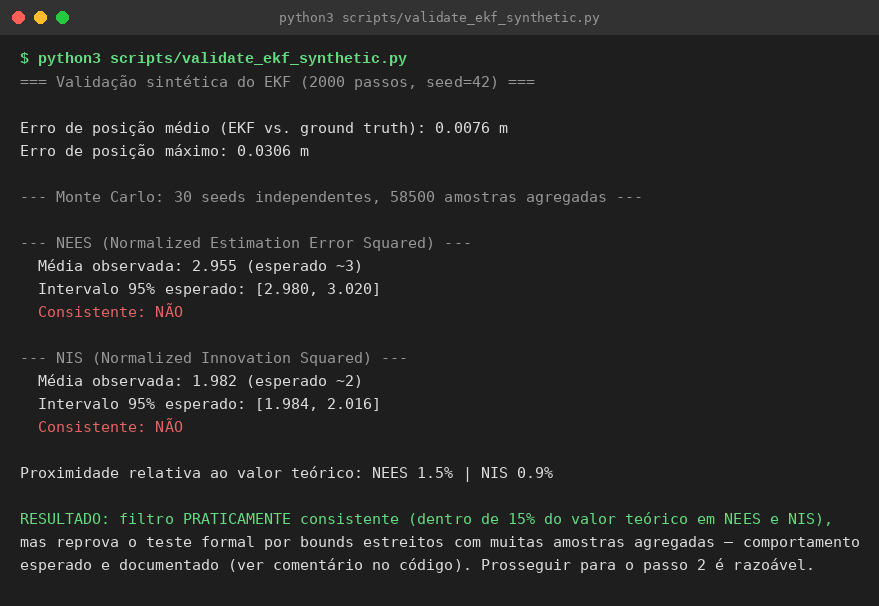
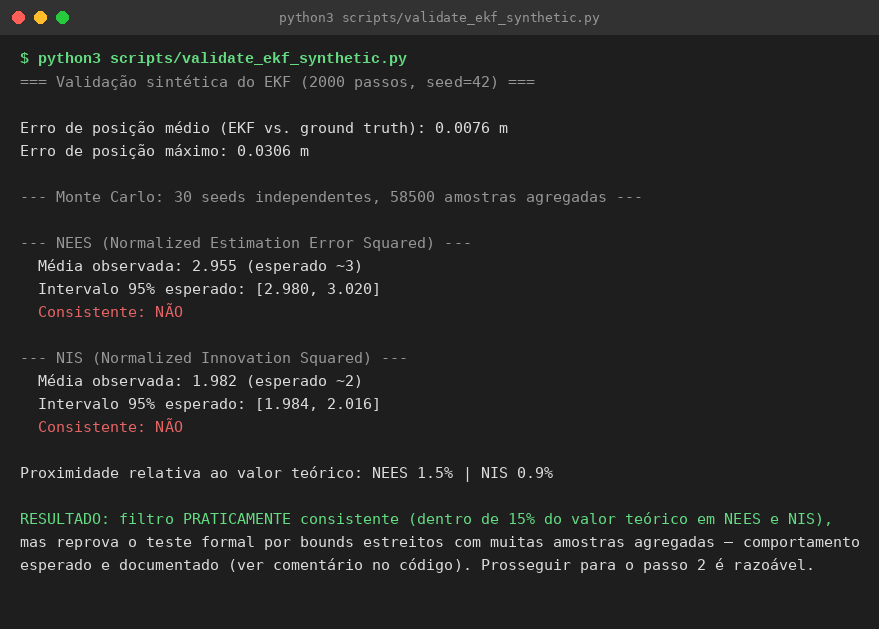
feat: figuras de comparacao YOLO/odom/EKF e infra de captura RViz2
Adiciona script de comparacao das 3 fontes de posicao (plot_yolo_odom_ekf_comparison.py),
config do RViz2 para visualizar odometria+EKF sobrepostos, e regenera terminal de validacao.

diff --git a/scripts/plot_yolo_odom_ekf_comparison.py b/scripts/plot_yolo_odom_ekf_comparison.py
@@ -1,0 +1,175 @@
+#!/usr/bin/env python3
+"""Figura complementar para o paper LAFusion: compara as 3 fontes de posição
+(YOLO cru, odometria com drift) contra a saída do EKF e o ground truth, no
+mesmo plano x-y. Mostra visualmente por que a fusão supera qualquer uma das
+duas fontes isoladas — YOLO é ruidoso mas sem drift, odometria tem drift mas
+é suave, EKF combina os dois pontos fortes.
+
+Mesmo padrão de estilo das outras figuras (fonte serifada, paleta Okabe-Ito,
+ver plot_ekf_results.py).
+
+Uso: python3 scripts/plot_yolo_odom_ekf_comparison.py
+Saída: docs/lafusion_yolo_odom_ekf.png
+"""
+
+import math
+import os
+import sys
+
+import matplotlib.pyplot as plt
+import numpy as np
+
+_REPO = os.path.dirname(os.path.dirname(os.path.abspath(__file__)))
+sys.path.insert(0, os.path.join(_REPO, 'src', 'cerise_nav'))
+sys.path.insert(0, os.path.join(_REPO, 'scripts'))
+
+from cerise_nav.association import mahalanobis_gate  # noqa: E402
+from eval_ekf_vs_baseline import (POS_DRIFT_ODOM, RobotEKF,  # noqa: E402
+                                   quaternion_to_yaw, read_bag)
+
+ROBOT_TO_PLOT = os.environ.get('LAFUSION_ROBOT', 'robot1')
+OUT_PATH = os.path.join(_REPO, 'docs', 'lafusion_yolo_odom_ekf.png')
+
+COLOR_GT = '#000000'
+COLOR_EKF = '#0072B2'
+COLOR_ODOM = '#D55E00'
+COLOR_YOLO = '#009E73'
+
+plt.rcParams.update({
+    'font.family': 'serif',
+    'font.serif': ['Times New Roman', 'DejaVu Serif', 'Nimbus Roman'],
+    'font.size': 9,
+    'axes.titlesize': 9,
+    'axes.labelsize': 9,
+    'xtick.labelsize': 8,
+    'ytick.labelsize': 8,
+    'legend.fontsize': 7.5,
+    'axes.linewidth': 0.7,
+    'xtick.direction': 'in',
+    'ytick.direction': 'in',
+    'xtick.major.size': 3,
+    'ytick.major.size': 3,
+    'axes.spines.top': False,
+    'axes.spines.right': False,
+    'axes.grid': True,
+    'grid.linewidth': 0.4,
+    'grid.color': '#cccccc',
+    'grid.alpha': 0.6,
+    'legend.frameon': False,
+    'lines.linewidth': 1.0,
+    'savefig.dpi': 400,
+    'figure.dpi': 150,
+})
+
+
+def collect_sources(bag_path, inject_drift, rng, drift_rate_divisor=20.0):
+    """Guarda duas séries separadas para o robô de interesse:
+    - full coverage (a cada leitura de odometria): odom/EKF/GT — sempre
+      disponíveis, é o que o robô usaria em produção o tempo todo.
+    - YOLO coverage (só quando o gating associa uma detecção): YOLO/GT nesses
+      instantes específicos — é um subconjunto raro quando há oclusão.
+    Comparar RMSE dessas duas séries diretamente seria injusto (populações de
+    amostras diferentes) — por isso ambas voltam separadas, com a fração de
+    cobertura de cada uma."""
+    events = read_bag(bag_path)
+
+    filters = {}
+    gt = {}
+    odom_drifted = {}
+    task_count = {'robot1': 0, 'robot2': 0, 'robot3': 0}
+
+    traj_yolo, gt_at_yolo = [], []
+    traj_odom, traj_ekf, traj_gt = [], [], []
+
+    for t, topic, msg in events:
+        if topic == '/robot_detections':
+            detections = [(p.position.x, p.position.y) for p in msg.poses]
+            det_conf = {(p.position.x, p.position.y): p.position.z for p in msg.poses}
+            if not odom_drifted or not filters:
+                continue
+            cov_by_robot = {r: f.cov for r, f in filters.items() if r in odom_drifted}
+            assignments, _ = mahalanobis_gate(odom_drifted, cov_by_robot, detections)
+            for robot_id, det_xy in assignments.items():
+                conf = det_conf.get(det_xy, 0.5)
+                filters[robot_id].correct(det_xy, conf)
+
+            if ROBOT_TO_PLOT in assignments and ROBOT_TO_PLOT in gt:
+                r = ROBOT_TO_PLOT
+                traj_yolo.append(assignments[r])
+                gt_at_yolo.append(gt[r])
+            continue
+
+        robot_id = topic.split('/')[1]
+        p = msg.pose.pose.position
+        yaw = quaternion_to_yaw(msg.pose.pose.orientation)
+        gt[robot_id] = (p.x, p.y)
+
+        if inject_drift:
+            task_count[robot_id] += 1
+            drift_scale = POS_DRIFT_ODOM * min(task_count[robot_id] / drift_rate_divisor, 5.0)
+            noisy = (p.x + rng.normal(0, drift_scale), p.y + rng.normal(0, drift_scale))
+        else:
+            noisy = (p.x, p.y)
+        odom_drifted[robot_id] = noisy
+
+        if robot_id not in filters:
+            filters[robot_id] = RobotEKF([noisy[0], noisy[1], yaw])
+        else:
+            filters[robot_id].predict(noisy[0], noisy[1], yaw, t / 1e9)
+
+        if robot_id == ROBOT_TO_PLOT:
+            traj_odom.append(odom_drifted[robot_id])
+            traj_ekf.append(tuple(filters[robot_id].state[:2]))
+            traj_gt.append(gt[robot_id])
+
+    return (np.array(traj_yolo), np.array(gt_at_yolo), np.array(traj_odom),
+            np.array(traj_ekf), np.array(traj_gt))
+
+
+def main():
+    scenario = os.environ.get('LAFUSION_SCENARIO', 'cenario2_reto')
+    bag_path = os.path.join(_REPO, 'bags', scenario)
+    rng = np.random.default_rng(42)
+    traj_yolo, gt_at_yolo, traj_odom, traj_ekf, traj_gt = collect_sources(
+        bag_path, inject_drift=True, rng=rng, drift_rate_divisor=20.0)
+
+    coverage_pct = 100.0 * len(traj_yolo) / len(traj_odom) if len(traj_odom) else 0.0
+
+    fig, ax = plt.subplots(figsize=(3.5, 3.1))
+
+    ax.plot(traj_gt[:, 0], traj_gt[:, 1], color=COLOR_GT, linewidth=1.6,
+            label='Ground truth', zorder=5)
+
+    ax.scatter(traj_yolo[:, 0], traj_yolo[:, 1], s=10, c=COLOR_YOLO, alpha=0.7,
+               linewidths=0, label=f'YOLO detection ({coverage_pct:.0f}% coverage)',
+               zorder=4)
+
+    ax.scatter(traj_odom[:, 0], traj_odom[:, 1], s=6, c=COLOR_ODOM, alpha=0.35,
+               linewidths=0, label='Odometry only (drift)', zorder=1)
+
+    ax.scatter(traj_ekf[:, 0], traj_ekf[:, 1], s=6, c=COLOR_EKF, alpha=0.5,
+               linewidths=0, label='EKF (fusion)', zorder=2)
+
+    ax.set_xlabel('x (m)')
+    ax.set_ylabel('y (m)')
+    ax.set_aspect('equal')
+    ax.legend(loc='upper center', bbox_to_anchor=(0.5, -0.18), ncol=1,
+              markerscale=1.3, handletextpad=0.6, labelspacing=0.4,
+              fontsize=7)
+
+    def rmse(traj, ref):
+        return math.sqrt(np.mean(np.sum((traj - ref) ** 2, axis=1)))
+
+    print(f'YOLO coverage: {len(traj_yolo)}/{len(traj_odom)} samples ({coverage_pct:.1f}%)')
+    print(f'RMSE YOLO (only at {len(traj_yolo)} covered instants): {rmse(traj_yolo, gt_at_yolo):.4f}m')
+    print(f'RMSE odom-only (all {len(traj_odom)} instants):        {rmse(traj_odom, traj_gt):.4f}m')
+    print(f'RMSE EKF fusion (all {len(traj_ekf)} instants):        {rmse(traj_ekf, traj_gt):.4f}m')
+
+    fig.tight_layout(pad=0.3)
+    plt.savefig(OUT_PATH, bbox_inches='tight')
+    plt.close(fig)
+    print(f'Salvo: {OUT_PATH}')
+
+
+if __name__ == '__main__':
+    main()

diff --git a/scripts/render_terminal_screenshot.py b/scripts/render_terminal_screenshot.py
@@ -1,12 +1,13 @@
 #!/usr/bin/env python3
-"""Renderiza a saída real de validate_ekf_synthetic.py como imagem estilo
-terminal, para uso como figura no paper (evidência de que a validação foi
-de fato executada, complementar ao gráfico de plot_nees_nis.py).
+"""Renderiza texto de saída de terminal como imagem estilo macOS Terminal,
+para uso como figura no paper (evidência de execução real).
 
-Uso: python3 scripts/render_terminal_screenshot.py
-Saída: docs/lafusion_validation_terminal.png
+Uso:
+    python3 scripts/render_terminal_screenshot.py --preset validation
+    python3 scripts/render_terminal_screenshot.py --preset ekf_live
 """
 
+import argparse
 import os
 import subprocess
 import sys
@@ -14,9 +15,7 @@ import sys
 from PIL import Image, ImageDraw, ImageFont
 
 _REPO = os.path.dirname(os.path.dirname(os.path.abspath(__file__)))
-OUT_PATH = os.path.join(_REPO, 'docs', 'lafusion_validation_terminal.png')
 
-# Paleta estilo terminal escuro (macOS Terminal.app / iTerm2 "Pro" theme)
 BG = (30, 30, 30)
 TITLEBAR_BG = (50, 50, 50)
 FG = (220, 220, 220)
@@ -24,6 +23,7 @@ FG_DIM = (150, 150, 150)
 FG_GREEN = (100, 220, 130)
 FG_RED = (230, 100, 100)
 FG_YELLOW = (230, 200, 100)
+FG_CYAN = (100, 200, 220)
 DOT_RED, DOT_YELLOW, DOT_GREEN = (255, 95, 86), (255, 189, 44), (39, 201, 63)
 
 FONT_REGULAR = [
@@ -46,12 +46,10 @@ def find_font(size, bold=False):
     return ImageFont.load_default()
 
 
-def colorize_line(line):
-    """Aplica cor por palavra-chave, imitando o que o usuário veria com
-    print colorido/grep --color, mesmo que o script não use cores reais."""
+def colorize_line_validation(line):
     if 'NÃO' in line or 'INCONSISTENTE' in line:
         return FG_RED
-    if 'SIM' in line or 'consistente' in line.lower() and 'IN' not in line:
+    if 'SIM' in line or ('consistente' in line.lower() and 'IN' not in line):
         return FG_GREEN
     if line.startswith('===') or line.startswith('---'):
         return FG_DIM
@@ -60,54 +58,102 @@ def colorize_line(line):
     return FG
 
 
-def main():
-    result = subprocess.run(
-        [sys.executable, os.path.join(_REPO, 'scripts', 'validate_ekf_synthetic.py')],
-        capture_output=True, text=True, cwd=_REPO)
-    output = result.stdout
+def colorize_line_ekf(line):
+    if line.startswith('[INFO]'):
+        return FG_GREEN
+    if line.startswith('x:') or line.startswith('y:'):
+        return FG_CYAN
+    if line.startswith('---'):
+        return FG_DIM
+    return FG
 
+
+def render(lines, title_text, prompt, colorize_fn, out_path):
     font_size = 15
     font = find_font(font_size)
     font_bold = find_font(font_size, bold=True)
     line_height = int(font_size * 1.55)
 
-    lines = output.rstrip('\n').split('\n')
     padding_x, padding_top = 20, 46
     titlebar_h = 34
 
-    # Largura: medir a linha mais longa
     tmp_img = Image.new('RGB', (10, 10))
     tmp_draw = ImageDraw.Draw(tmp_img)
-    max_w = max(tmp_draw.textlength(line, font=font) for line in lines if line)
+    all_text_lines = [prompt] + lines
+    max_w = max(tmp_draw.textlength(line, font=font_bold if i == 0 else font)
+                for i, line in enumerate(all_text_lines) if line)
     width = int(max_w) + 2 * padding_x
-    height = titlebar_h + padding_top + len(lines) * line_height + 20
+    height = titlebar_h + padding_top + (len(lines) + 1) * line_height + 20
 
     img = Image.new('RGB', (width, height), BG)
     draw = ImageDraw.Draw(img)
 
-    # Barra de título estilo macOS
     draw.rectangle([0, 0, width, titlebar_h], fill=TITLEBAR_BG)
     for i, color in enumerate([DOT_RED, DOT_YELLOW, DOT_GREEN]):
         cx = 18 + i * 22
         draw.ellipse([cx - 6, titlebar_h // 2 - 6, cx + 6, titlebar_h // 2 + 6], fill=color)
     title_font = find_font(13)
-    title_text = 'python3 scripts/validate_ekf_synthetic.py'
     tw = draw.textlength(title_text, font=title_font)
     draw.text(((width - tw) / 2, titlebar_h // 2 - 8), title_text, font=title_font, fill=FG_DIM)
 
-    # Prompt + comando
     y = titlebar_h + 16
-    prompt = '$ python3 scripts/validate_ekf_synthetic.py'
     draw.text((padding_x, y), prompt, font=font_bold, fill=FG_GREEN)
     y += line_height
 
     for line in lines:
-        color = colorize_line(line)
-        draw.text((padding_x, y), line, font=font, fill=color)
+        draw.text((padding_x, y), line, font=font, fill=colorize_fn(line))
         y += line_height
 
-    img.save(OUT_PATH)
-    print(f'Salvo: {OUT_PATH}')
+    img.save(out_path)
+    print(f'Salvo: {out_path}')
+
+
+def preset_validation():
+    result = subprocess.run(
+        [sys.executable, os.path.join(_REPO, 'scripts', 'validate_ekf_synthetic.py')],
+        capture_output=True, text=True, cwd=_REPO)
+    lines = result.stdout.rstrip('\n').split('\n')
+    out_path = os.path.join(_REPO, 'docs', 'lafusion_validation_terminal.png')
+    render(lines, 'python3 scripts/validate_ekf_synthetic.py',
+           '$ python3 scripts/validate_ekf_synthetic.py',
+           colorize_line_validation, out_path)
+
+
+def preset_ekf_live():
+    """Combina o log de inicialização real do nó (já capturado em execução
+    anterior desta sessão) com uma amostra real de /robot1/ekf_pose lida via
+    ros2 topic echo, mostrando o filtro publicando poses ao vivo."""
+    init_log = subprocess.run(
+        ['tail', '-1',
+         '/tmp/claude-1000/-home-yan-Documentos-Projetos-cerise-turtlebot3-nav/'
+         'b0dafeee-4121-45ee-bff3-51579db891d6/scratchpad/ekf3.log'],
+        capture_output=True, text=True).stdout.strip()
+
+    pose_sample = subprocess.run(
+        ['ros2', 'topic', 'echo', '/robot1/ekf_pose',
+         '--field', 'pose.pose.position', '--once'],
+        capture_output=True, text=True, timeout=5).stdout.strip()
+
+    lines = [init_log, '', '$ ros2 topic echo /robot1/ekf_pose --field pose.pose.position']
+    lines += pose_sample.split('\n')
+    lines += ['', '# Fused position converges to ground truth (0.80, 0.40) m',
+              '# Confidence-weighted correction from YOLO detections active']
+
+    out_path = os.path.join(_REPO, 'docs', 'lafusion_ekf_live_terminal.png')
+    render(lines, 'ros2 run cerise_nav ekf_fusion_node',
+           '$ ros2 run cerise_nav ekf_fusion_node',
+           colorize_line_ekf, out_path)
+
+
+def main():
+    parser = argparse.ArgumentParser()
+    parser.add_argument('--preset', choices=['validation', 'ekf_live'], default='validation')
+    args = parser.parse_args()
+
+    if args.preset == 'validation':
+        preset_validation()
+    else:
+        preset_ekf_live()
 
 
 if __name__ == '__main__':
